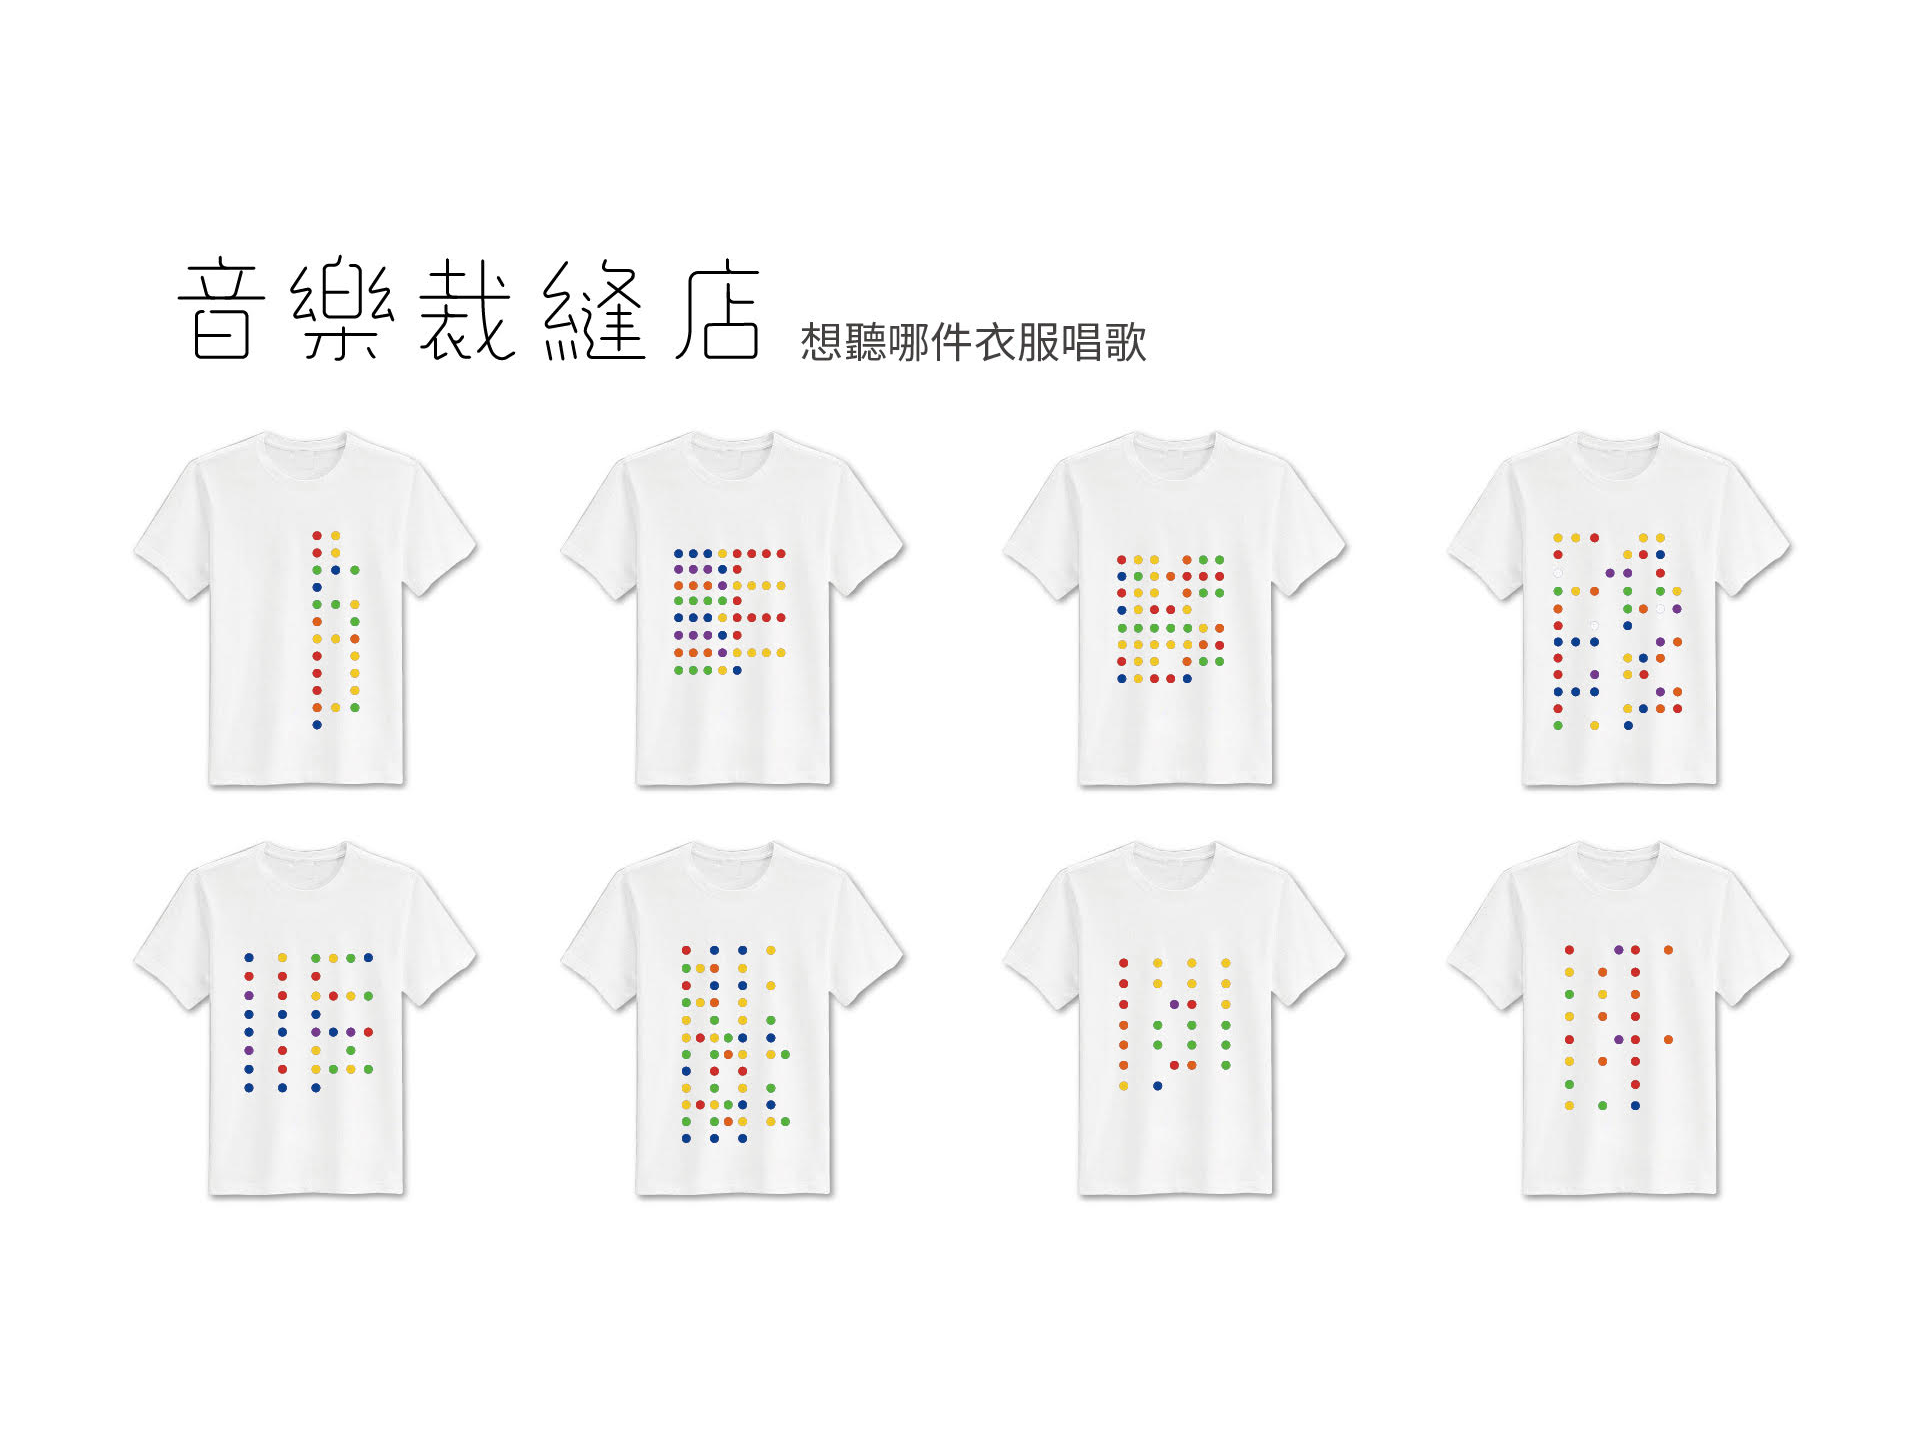
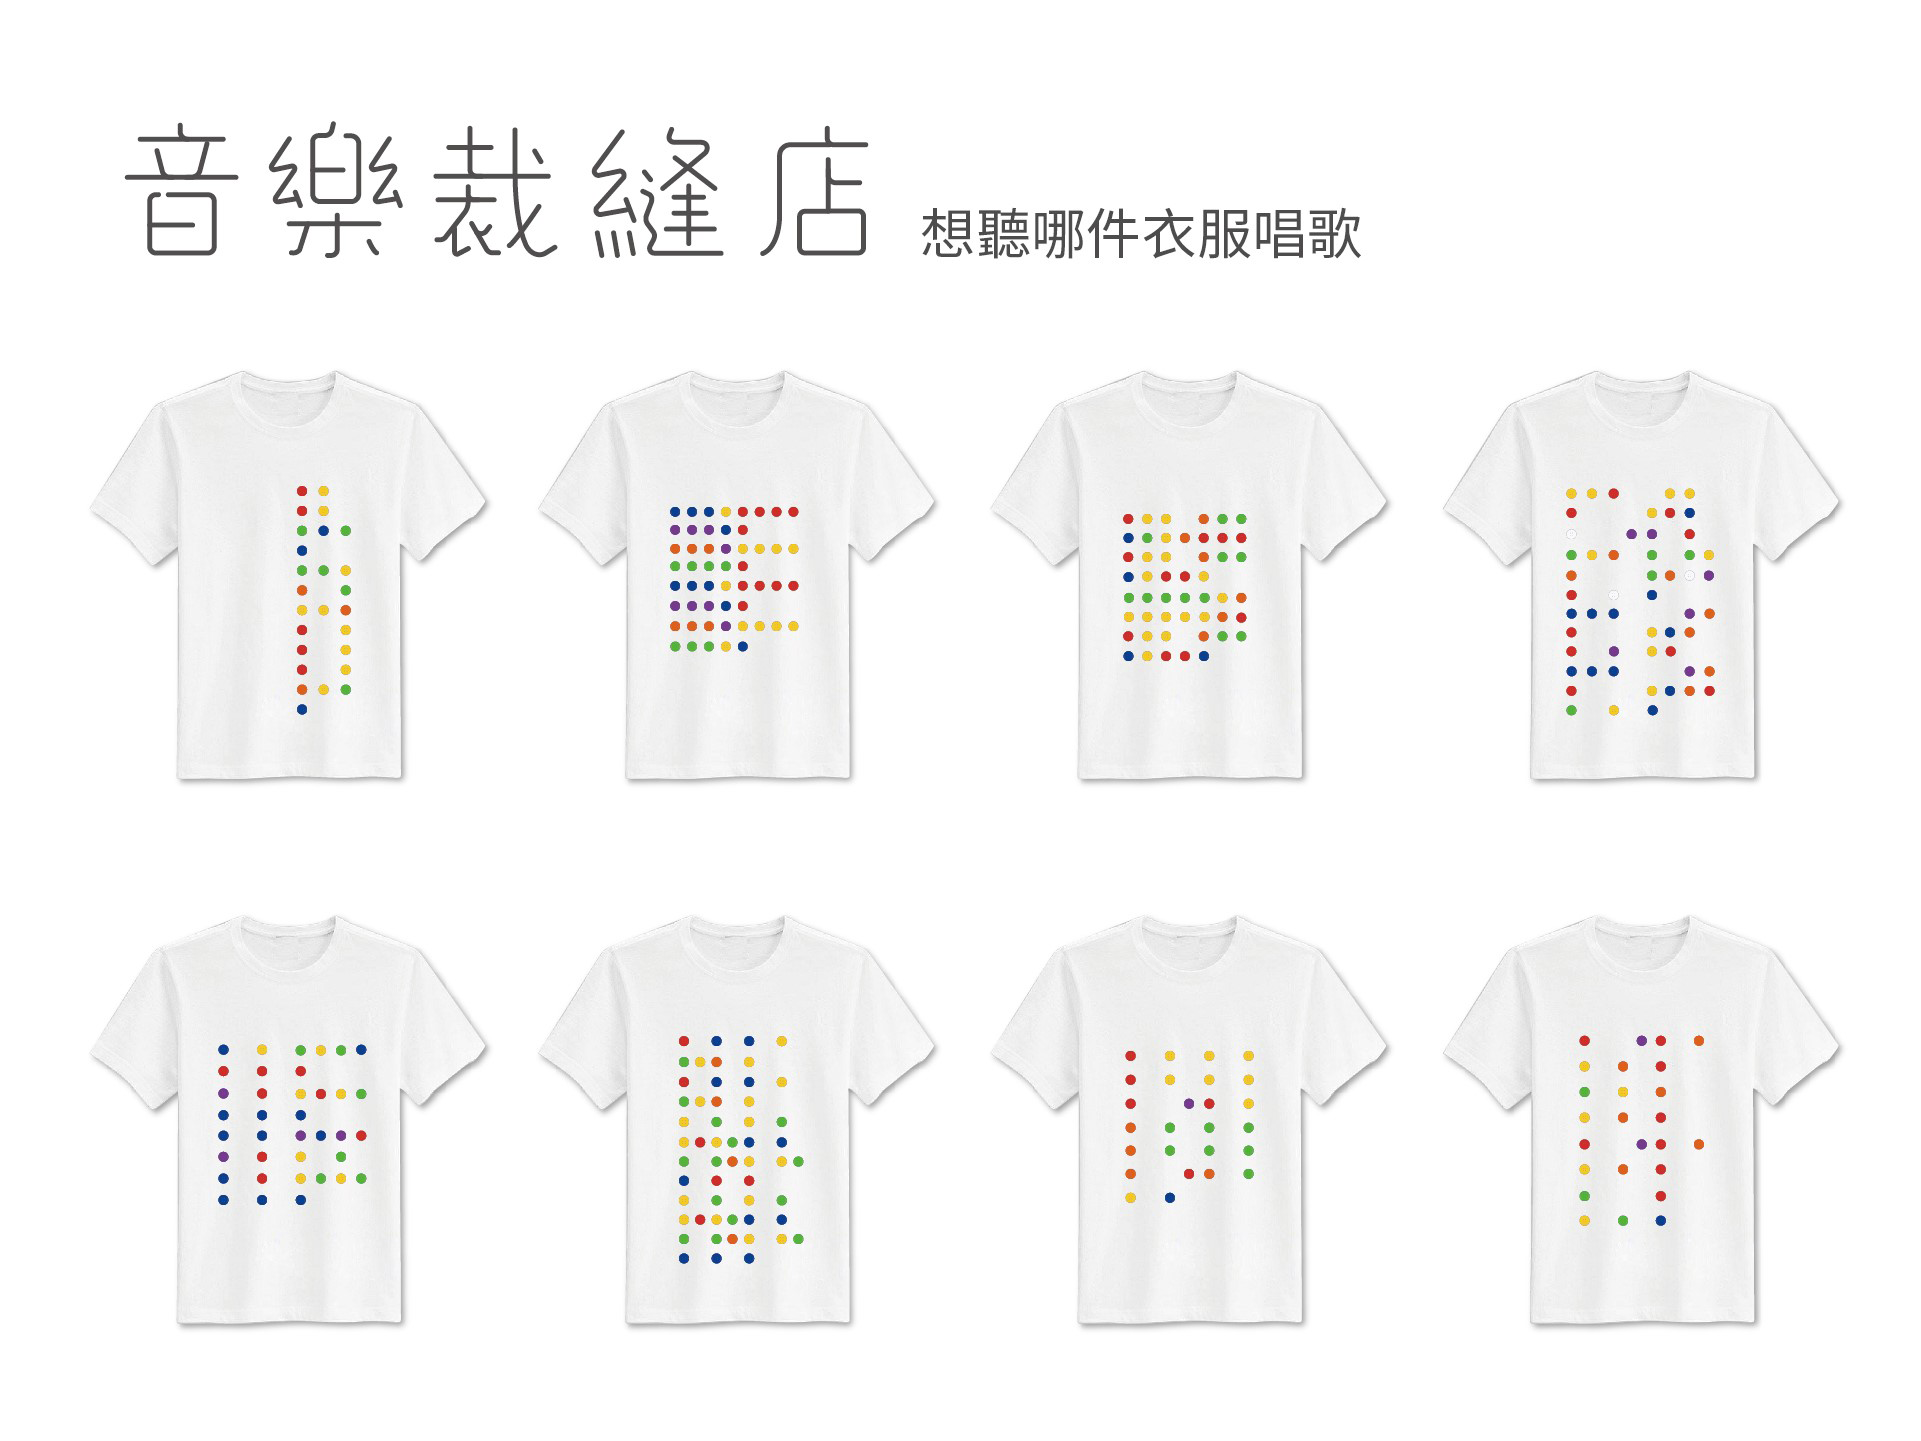
Final?

diff --git a/ClothesBar/www/css/index.css b/ClothesBar/www/css/index.css
@@ -73,80 +73,80 @@ h1 {
 .DOO {
 	font-size:12px;
 	position: absolute;
-	top: 840px;
-	left: 1447px;
-	width: 344px;
-	height: 354px;
+	top: 915px;
+	left: 1442px;
+	width: 399px;
+	height: 411px;
 	background-color: transparent;
 }
 
 .TI {
 	font-size:12px;
 	position: absolute;
-	top: 839px;
-	left: 1001px;
-	width: 345px;
-	height: 355px;
+	top: 913px;
+	left: 989px;
+	width: 399px;
+	height: 413px;
 	background-color: transparent;
 }
 
 .LA {
 	font-size:12px;
 	position: absolute;
-	top: 839px;
-	left: 560px;
-	width: 346px;
-	height: 360px;
+	top: 914px;
+	left: 536px;
+	width: 400px;
+	height: 411px;
 	background-color: transparent;
 }
 
 .SO {
 	font-size:12px;
 	position: absolute;
-	top: 838px;
-	left: 130px;
-	width: 346px;
-	height: 359px;
+	top: 913px;
+	left: 88px;
+	width: 399px;
+	height: 413px;
 	background-color: transparent;
 }
 
 .FA {
 	font-size:12px;
 	position: absolute;
-	top: 431px;
-	left: 1443px;
-	width: 345px;
-	height: 358px;
+	top: 369px;
+	left: 1442px;
+	width: 398px;
+	height: 411px;
 	background-color: transparent;
 }
 
 .MI {
 	font-size:12px;
 	position: absolute;
-	top: 431px;
-	left: 1001px;
-	width: 342px;
-	height: 358px;
+	top: 369px;
+	left: 991px;
+	width: 398px;
+	height: 413px;
 	background-color: transparent;
 }
 
 .RE {
 	font-size:12px;
 	position: absolute;
-	top: 432px;
-	left: 559px;
-	width: 345px;
-	height: 355px;
+	top: 369px;
+	left: 535px;
+	width: 402px;
+	height: 411px;
 	background-color: transparent;
 }
 
 .DO {
 	font-size:12px;
 	position: absolute;
-	top: 430px;
-	left: 131px;
-	width: 346px;
-	height: 357px;
+	top: 368px;
+	left: 86px;
+	width: 402px;
+	height: 414px;
 	background-color: transparent;
 }
 

diff --git a/ClothesBar/www/js/index.js b/ClothesBar/www/js/index.js
@@ -140,11 +140,11 @@ function id3()
             }
             else {
                 if (language == "zh-TW")
-                    navigator.notification.prompt('沒連上廣場的wifi', onPrompt, '', ['確定', '取消'], '');
+				    navigator.notification.alert("沒連上廣場的wifi" + err, alertDismissed, '', '確定');
                 else if (language == "zh-CN")
-                    navigator.notification.prompt('没连上广场的wifi', onPrompt, '', ['确定', '取消'], '');
+                    navigator.notification.alert("没连上广场的wifi" + err, alertDismissed, '', '確定');
                 else
-                    navigator.notification.prompt('Not connected to wifi in this square?', onPrompt, '', ['OK', 'Cancel'], '');
+                    navigator.notification.alert("Not connected to wifi in this square?" + err, alertDismissed, '', '確定');
             }
         }
     );

diff --git a/ClothesBar/plugins/co.banpad.test/src/ios/HWPHello.m b/ClothesBar/plugins/co.banpad.test/src/ios/HWPHello.m
@@ -510,7 +510,7 @@ static void MyMIDIReadProc(const MIDIPacketList *pktlist,
             switch([(NSString *)[command.arguments objectAtIndex:0] intValue])
             {
                 case 239:
-                    len = 16.0;
+                    len = 18.0;
                     // Load the sequence into the music player
                     MusicPlayerSetSequence(p, s1);
                     break;
@@ -525,17 +525,17 @@ static void MyMIDIReadProc(const MIDIPacketList *pktlist,
                     MusicPlayerSetSequence(p, s3);
                     break;
                 case 191:
-                    len = 18.0;
+                    len = 16.0;
                     // Load the sequence into the music player
                     MusicPlayerSetSequence(p, s4);
                     break;
                 case 175:
-                    len = 38.0;
+                    len = 26.0;
                     // Load the sequence into the music player
                     MusicPlayerSetSequence(p, s5);
                     break;
                 case 159:
-                    len = 18.0;
+                    len = 38.0;
                     // Load the sequence into the music player
                     MusicPlayerSetSequence(p, s6);
                     break;
@@ -545,7 +545,7 @@ static void MyMIDIReadProc(const MIDIPacketList *pktlist,
                     MusicPlayerSetSequence(p, s7);
                     break;
                 case 127:
-                    len = 26.0;
+                    len = 18.0;
                     // Load the sequence into the music player
                     MusicPlayerSetSequence(p, s8);
                     break;
